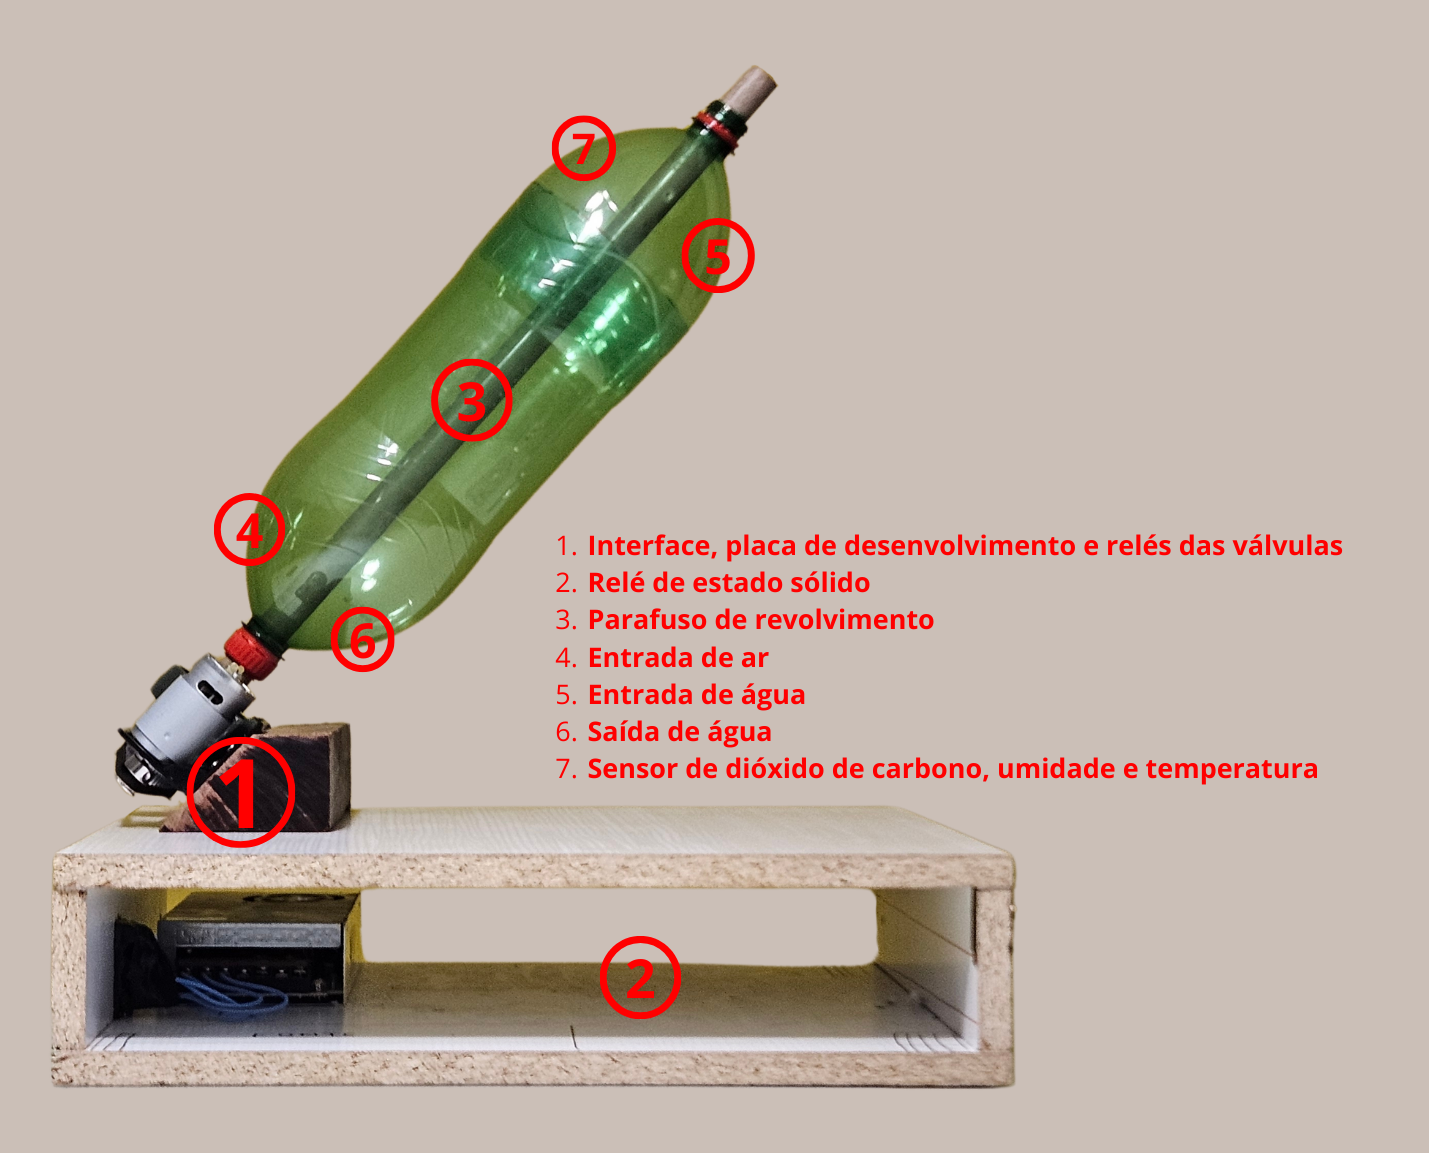
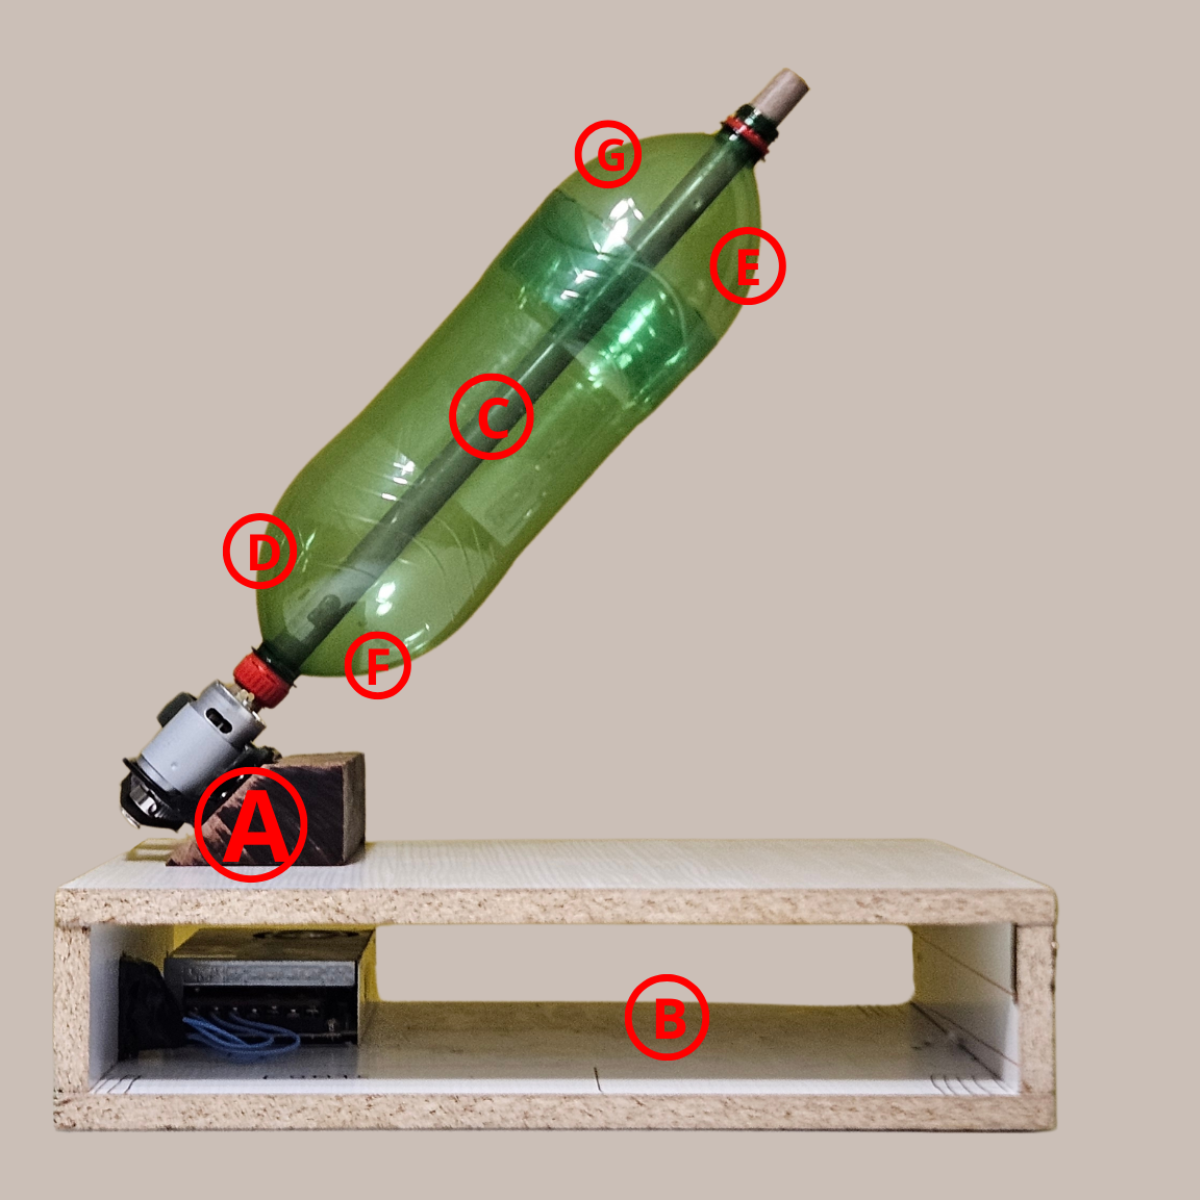
fix: resolve pendências apontadas na introdução
- Altera imagem para colocar descrições na legenda
- Adiciona 4 novas referências bibliográficas

Changed region(s): [[0.0308, 0.0624, 0.9558, 0.9679], [0.4008, 0.7493, 0.4625, 0.7806]]

diff --git a/textuais/introducao.tex b/textuais/introducao.tex
@@ -2,24 +2,27 @@
 
 O malte é um produto de extrema importância para diversos setores industriais, com ele sendo o principal insumo na produção de cerveja, onde fornece açúcares fermentáveis, cor e aroma à bebida. No setor cervejeiro, o malte de cevada é o mais utilizado; no entanto, há um crescente interesse em pesquisas que buscam desenvolver malte a partir de outros grãos, como arroz, milho e trigo, visando atender demandas específicas, como a produção de cervejas livres de glúten \cite{CECCARONI2019}. Além disso, o malte tem ganhado destaque como ingrediente funcional na indústria alimentícia, sendo utilizado, por exemplo, na fabricação de pães, devido às suas propriedades nutricionais \cite{KOISTINEN2020}.
 
-A produção de malte, no entanto, enfrenta desafios significativos, especialmente em climas quentes, onde o controle preciso de temperatura, umidade e tempo, durante as etapas de maceração, germinação e secagem, é crucial para garantir a qualidade do produto \cite{KOVALOVA2024}. O controle desses parâmetros torna a malteação um processo complexo, exigindo equipamentos especializados e sistemas automatizados para otimizar a produção. No contexto acadêmico e de pesquisa, a falta de equipamentos acessíveis e confiáveis para malteação em laboratório limita o desenvolvimento de estudos e inovações nesta área, evidenciando a importância de soluções de baixo custo e alta eficiência.
+A produção de malte, no entanto, enfrenta desafios significativos, especialmente em climas quentes, onde o controle preciso de temperatura, umidade e tempo, durante as etapas de maceração, germinação e secagem, é crucial para garantir a qualidade do produto \cite{KOVALOVA2024}. O controle desses parâmetros torna a malteação um processo complexo, exigindo equipamentos especializados e sistemas automatizados para otimizar a produção. No contexto acadêmico e de pesquisa, a falta de equipamentos acessíveis e confiáveis para malteação em laboratório limita o desenvolvimento de estudos e inovações nesta área, evidenciando a importância de soluções de baixo custo.
+% A base dessa minha afirmação "forte" foram minhas pesquisas mais diretas por equipamentos, que normalmente são industriais. Essa é a forma que encontrei para justificar o trabalho, não sei se foi a melhor abordagem, mas parece funcionar. - Nicolas
 
-Nesse contexto, um dos principais desafios enfrentados é a falta de equipamentos que permitam a malteação controlada em laboratório, comprometendo a precisão e a reprodutibilidade dos experimentos. Durante uma iniciação científica (IC), foi desenvolvido um protótipo inicial (\autoref{fig:malteador}), não finalizado, restando completar a montagem física e desenvolver o sistema de controle e automação. O presente trabalho dá continuidade à IC ao propor uma solução de software responsável por garantir que o processo de malteação ocorra adequadamente.
+Nesse contexto, um dos principais desafios enfrentados é a falta de equipamentos que permitam a malteação controlada em laboratório, comprometendo a precisão e a reprodutibilidade dos experimentos. Durante uma iniciação científica (IC), foi desenvolvido um protótipo inicial (\autoref{fig:malteador}), não finalizado, restando completar a montagem física e desenvolver o sistema de controle e automação. O presente trabalho dá continuidade à IC ao propor uma solução de \textit{software} responsável por garantir que o processo de malteação ocorra adequadamente. 
+% A minha intenção é que essa última frase exponha os objetivos do trabalho. - Nicolas
 
 \begin{figure}[ht]
     \centering
-    \caption{Protótipo desenvolvido durante a IC.}
+    \caption{Protótipo desenvolvido durante a IC. (A) Interface, placa de desenvolvimento e relés das válvulas; (B) Relé de estado sólido; (C) Parafuso de revolvimento; (D) Entrada de ar; (E) Entrada de água; (F) Saída de água; (G) Sensor de dióxido de carbono, umidade e temperatura.}  
     \label{fig:malteador}
     \includegraphics[width=0.8\textwidth]{Vista Lateral do Malteador.png}
 
     {\centering\footnotesize Fonte: Autoria própria.\par}
 \end{figure}
 
-A proposta visa o desenvolvimento de um sistema baseado no microcontrolador ESP32 (\autoref{fig:esquemaeletronico}) integrado com um aplicativo Android. Esse dispositivo foi escolhido por sua relação custo-benefício, capacidade de processamento e suporte a tecnologias de comunicação como Bluetooth e Wi-Fi. Para seu firmware, optou-se pela linguagem MicroPython, que oferece uma curva de aprendizado suave e é bastante utilizada em projetos de prototipagem rápida e IoT. Já o aplicativo Android foi desenvolvido em Kotlin, garantindo uma interface intuitiva e responsiva. A comunicação entre o firmware e o aplicativo é realizada via Bluetooth Low Energy (BLE), uma tecnologia de baixo consumo energético e amplamente disponível em dispositivos móveis, permitindo a configuração remota e o monitoramento em tempo real dos parâmetros operacionais. Além disso, a documentação dos softwares desenvolvidos pode servir como referência para outros estudos envolvendo Internet das Coisas (IoT) dentro do IFES, especialmente no que se refere à integração entre ESP32 e Android.
+A proposta visa o desenvolvimento de um sistema (\autoref{fig:esquemaeletronico}) baseado no microcontrolador ESP32-C3, da fabricante chinesa Espressif Systems, integrado com um aplicativo Android. Esse microcontrolador foi escolhido por sua relação custo-benefício, capacidade de processamento e suporte a tecnologias de comunicação como Bluetooth e Wi-Fi \cite{rodrigues2021controle, santos2019sistema}. Para seu firmware, optou-se pela linguagem MicroPython, que oferece uma curva de aprendizado suave e é bastante utilizada em projetos de prototipagem rápida e Internet das Coisas (IoT) \cite{TOLLERVEY2017, brito2020automaccao}. Já o aplicativo Android foi desenvolvido em Kotlin, linguagem oficial para o desenvolvimento Android \cite{sempreupdate_kotlin_2020}. A comunicação entre o firmware e o aplicativo é realizada via Bluetooth Low Energy (BLE), uma tecnologia de baixo consumo energético e amplamente disponível em dispositivos móveis \cite{heydon2012bluetooth}, permitindo a configuração remota e o monitoramento em tempo real dos parâmetros operacionais. Além disso, a documentação dos softwares desenvolvidos pode servir como referência para outros estudos envolvendo IoT dentro do IFES, especialmente no que se refere à integração entre ESP32 e Android.
+% Adicionei referências a esse parágrafo. - Nicolas
 
 \begin{figure}[ht]
     \centering
-    \caption{Esquema eletrônico do malteador desenvolvido durante a IC: (A) relés para atuação das válvulas, (B) relés para atuação do motor e da resistência elétrica, (C) sensor AHT20+ENS160, (D) painel LCD, (E) botão de emergência, (F) microcontrolador ESP32}
+    \caption{Esquema eletrônico do malteador desenvolvido durante a IC: (A) relés para atuação das válvulas; (B) relés para atuação do motor e da resistência elétrica; (C) sensor de umidade, temperatura e dióxido de carbono; (D) painel LCD; (E) botão de emergência; (F) microcontrolador ESP32}
     \label{fig:esquemaeletronico}
     \includegraphics[width=0.8\textwidth]{esquemaeletronico.png}
 
